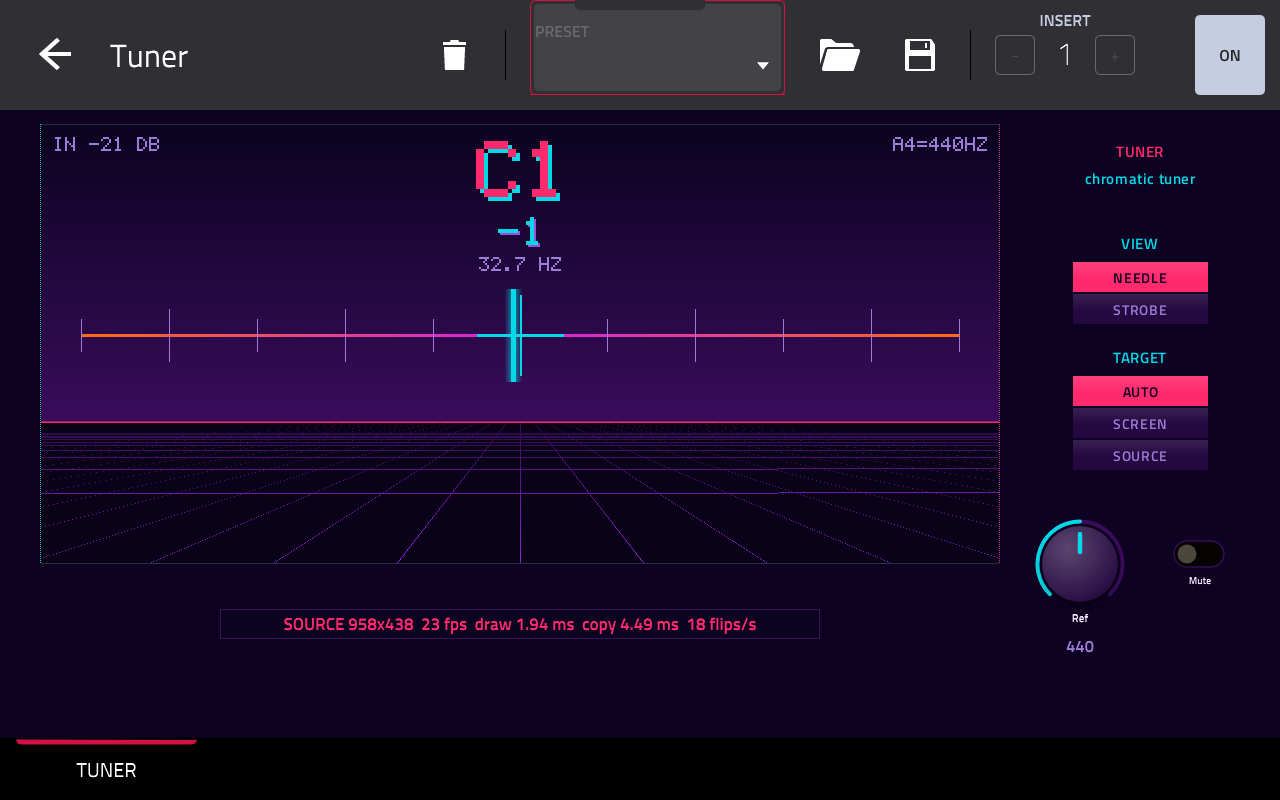
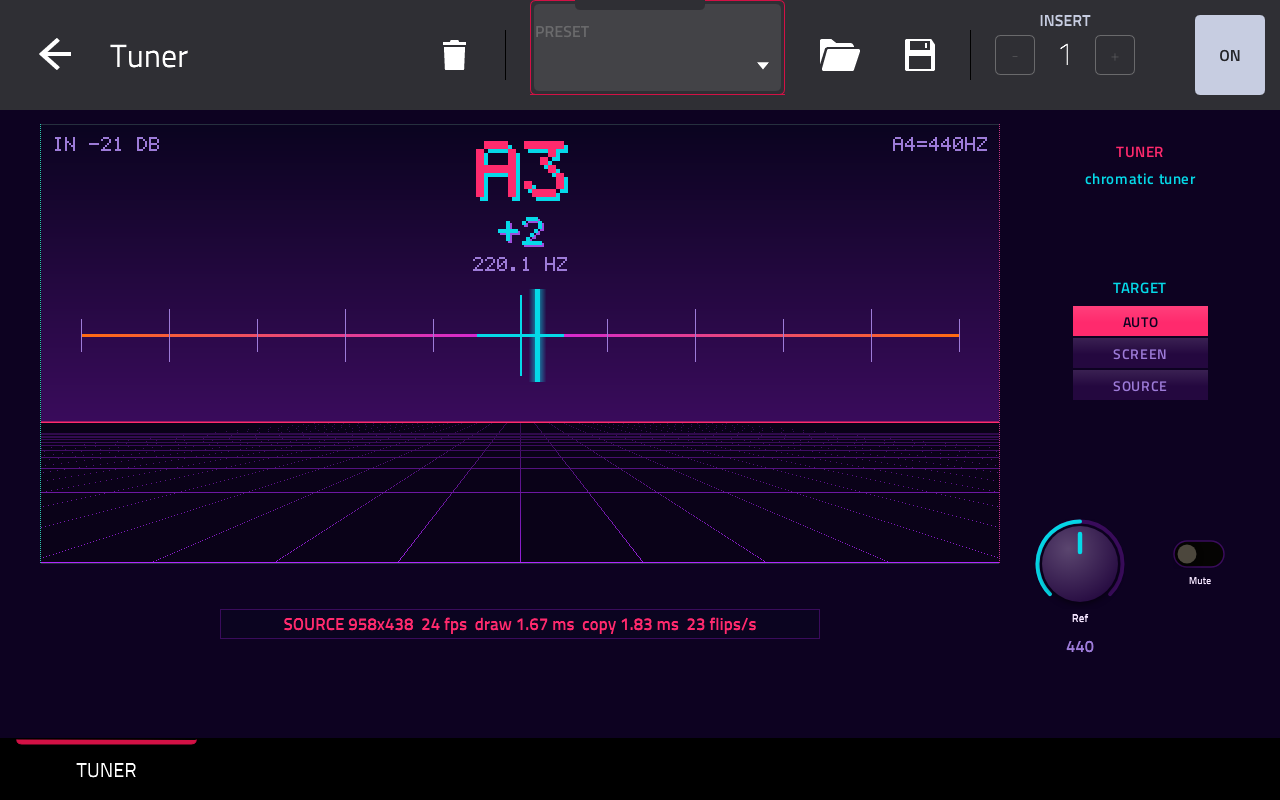
Still background: the grid floor no longer scrolls
Only the note, the cents and the needle change now. On the Key 37 the copy into MPC's buffer drops from up to
5.4 ms to 1.8 ms, the drawing thread from 14% to 10% of a core, and the floor's one-frame tears are gone.

Changed region(s): [[0.8125, 0.2812, 0.9688, 0.5938], [0.375, 0.1562, 0.4688, 0.5]]

diff --git a/src/engine.c b/src/engine.c
@@ -5,8 +5,7 @@
  * Pitch: YIN (de Cheveigne & Kawahara 2002) on the input decimated 4x to 11025 Hz (covers 27-1378 Hz), then the
  * period refined at 44.1 kHz around what it found, with parabolic interpolation at both stages. A 5-estimate
  * median steadies the note; the needle eases toward the cents.
- * The view: the note, the cents and a needle, in a synthwave palette: a purple sky over a grid floor that scrolls
- * toward the viewer while a note sounds. */
+ * The view: the note, the cents and a needle, in a synthwave palette over a still purple sky and grid floor. */
 #include <math.h>
 #include <stdio.h>
 #include <stdlib.h>
@@ -53,7 +52,6 @@ typedef struct {
     int has, midi;
     float hz, cents, smooth_cents;
     int hold_frames;
-    float grid_phase;
     uint32_t *bg;                    /* the sky and the floor's fixed lines, column-major like the canvas */
     int bgw, bgh;
 } tuner_t;
@@ -140,17 +138,9 @@ static void vspan(scr_canvas_t *c, int x, int y0, int y1, uint32_t col)
     for (int y = y0; y <= y1; y++) p[y] = col;
 }
 
-static void hspan(scr_canvas_t *c, int y, int x0, int x1, uint32_t col)
-{
-    if ((unsigned)y >= (unsigned)c->h) return;
-    if (x0 < 0) x0 = 0;
-    if (x1 >= c->w) x1 = c->w - 1;
-    for (int x = x0; x <= x1; x++) c->px[(size_t)x * c->h + y] = col;
-}
-
 static int horizon(const scr_canvas_t *c) { return c->h * 68 / 100; }
 
-/* Sky gradient, horizon glow and the floor's lines toward the vanishing point: fixed, so drawn once per canvas size. */
+/* Sky gradient, horizon glow and the floor's grid: it never moves, so it's drawn once per canvas size. */
 static int make_bg(tuner_t *d, const scr_canvas_t *c)
 {
     if (d->bg && d->bgw == c->w && d->bgh == c->h) return 1;
@@ -171,6 +161,11 @@ static int make_bg(tuner_t *d, const scr_canvas_t *c)
             if ((unsigned)x < (unsigned)c->w) d->bg[(size_t)x * c->h + y] = col;
         }
     }
+    for (int i = 1; i <= 12; i++) {             /* cross lines, closer together toward the horizon */
+        int y = hz + (c->h - 1 - hz) / i;
+        uint32_t col = mix(C_FLOOR, C_GRID, 0.9f / (float)i + 0.15f);
+        for (int x = 0; x < c->w; x++) d->bg[(size_t)x * c->h + y] = col;
+    }
     for (int x = 0; x < c->w; x++) {
         d->bg[(size_t)x * c->h + hz] = C_PINK;
         if (hz > 0) d->bg[(size_t)x * c->h + hz - 1] = mix(C_SKY_HZN, C_PINK, 0.5f);
@@ -178,25 +173,10 @@ static int make_bg(tuner_t *d, const scr_canvas_t *c)
     return 1;
 }
 
-/* The background, plus the floor's cross lines, which move toward the viewer while a note sounds. */
-static void clear(tuner_t *d, scr_canvas_t *c, int moving)
+static void clear(tuner_t *d, scr_canvas_t *c)
 {
-    if (!make_bg(d, c)) {
-        for (size_t i = 0; i < (size_t)c->w * c->h; i++) c->px[i] = C_FLOOR;
-        return;
-    }
-    memcpy(c->px, d->bg, (size_t)c->w * c->h * sizeof *c->px);
-    if (moving) {
-        d->grid_phase += 0.04f;
-        if (d->grid_phase >= 1) d->grid_phase -= 1;
-    }
-    int hz = horizon(c);
-    for (int i = 0; i < 12; i++) {
-        float z = (float)i + 1.0f - d->grid_phase;
-        if (z < 1) continue;
-        int y = hz + (int)((float)(c->h - 1 - hz) / z);
-        hspan(c, y, 0, c->w - 1, mix(C_FLOOR, C_GRID, 0.9f / z + 0.15f));
-    }
+    if (make_bg(d, c)) memcpy(c->px, d->bg, (size_t)c->w * c->h * sizeof *c->px);
+    else for (size_t i = 0; i < (size_t)c->w * c->h; i++) c->px[i] = C_FLOOR;
 }
 
 /* Text with a cyan copy offset behind it, the scan-line look. */
@@ -280,7 +260,7 @@ static int draw(void *owner, scr_canvas_t *c)
     unsigned w = __atomic_load_n(&d->wpos, __ATOMIC_ACQUIRE);
 
     if (w < NFULL) {
-        clear(d, c, 0);
+        clear(d, c);
         idle(c, "WAITING");
         return 1;
     }
@@ -296,7 +276,7 @@ static int draw(void *owner, scr_canvas_t *c)
     snprintf(lbuf, sizeof lbuf, "IN %.0f DB", rms > 1e-6f ? 20.0 * log10((double)rms) : -120.0);
 
     if (rms < GATE) {
-        clear(d, c, 0);
+        clear(d, c);
         if (d->hold_frames > 0) {
             d->hold_frames--;
             draw_needle(d, c, 1);
@@ -340,7 +320,7 @@ static int draw(void *owner, scr_canvas_t *c)
         d->smooth_cents = d->smooth_cents * 0.7f + cents * 0.3f;
     }
 
-    clear(d, c, d->has);
+    clear(d, c);
     if (d->has) draw_needle(d, c, 0);
     else idle(c, "---");
     sd_text(c, 12, 12, 2, C_TICK, lbuf);

diff --git a/README.md b/README.md
@@ -46,13 +46,14 @@ then shows "---".
 
 ## Good to know
 
-- Tuner follows one note at a time. A chord reads as the period its notes share, usually a low note: the
-  screenshot above is of the Classic House demo's Rhodes chords, read as C1.
+- Tuner follows one note at a time. A chord reads as the period its notes share, usually a low note
+  (the Classic House demo's Rhodes chords read as C1; its single notes read cleanly, like the A3 above).
 - It reads from 27 Hz to about 1.4 kHz, from a 5-string bass's low B to the 24th fret of a guitar's high E string.
   Offline, every test note lands within 0.4 cents (`tests/pitch_test.c`, 2026-10-26).
 - The pitch detection runs on the drawing thread, never on the audio thread, and only while Tuner's page is on screen.
-- A frame copied while MPC refreshes its own UI can tear for one frame: the scrolling floor lines show it most, split
-  part of the way across (seen on a Key 37, 2026-10-26).
+- A frame copied while MPC refreshes its own UI can tear for one frame. An earlier version's scrolling floor showed it
+  plainly. The background is still now, and with only the needle and text moving no tearing has been seen (Key 37,
+  2026-10-26).
 - With two Tuners in a project, the one inserted last draws (tested offline only).
 
 ## Installing
@@ -62,8 +63,8 @@ There's no release yet. Once there is, it will be in the
 yourself (below) and install it like any other plugin from
 [mpc-vst-plugins](https://github.com/sd88me/mpc-vst-plugins).
 
-Tested on an MPC Key 37 (Gen1) with MPC OS 3.9.1 (2026-10-26; see `tested.json`). The Gen2 build (aarch64) compiles and passes the host
-test under QEMU but hasn't been on a device.
+Tested on an MPC Key 37 (Gen1) with MPC OS 3.9.1 (2026-10-26; see `tested.json`). The Gen2 build (aarch64) compiles,
+but hasn't been tested yet.
 
 ## CPU
 
@@ -73,10 +74,10 @@ thread, not in MPC's audio callback, so this is a share of one CPU core:
 | Input | Drawing thread |
 |---|---|
 | silent, the page open | 7.2% of a core |
-| a note sounding, the page open | 14.3% of a core |
+| the Classic House demo's Rhodes playing, the page open | 9.8% of a core |
 | another page on screen | almost nothing: a few small reads per frame |
 
-A frame takes 1.2 to 2.7 ms to draw and 1.4 to 5.4 ms to copy into MPC's buffer.
+A frame takes 1.2 to 2.0 ms to draw and 1.7 to 1.8 ms to copy into MPC's buffer.
 
 On the audio thread Tuner only copies each block into a buffer. The standard release bench (mpc-vst-plugins'
 `tools/bench.sh`, result in `vst/bench.txt`) gives it a **PASS**: 1.0% of the block budget at p99, 1.9% in the worst
